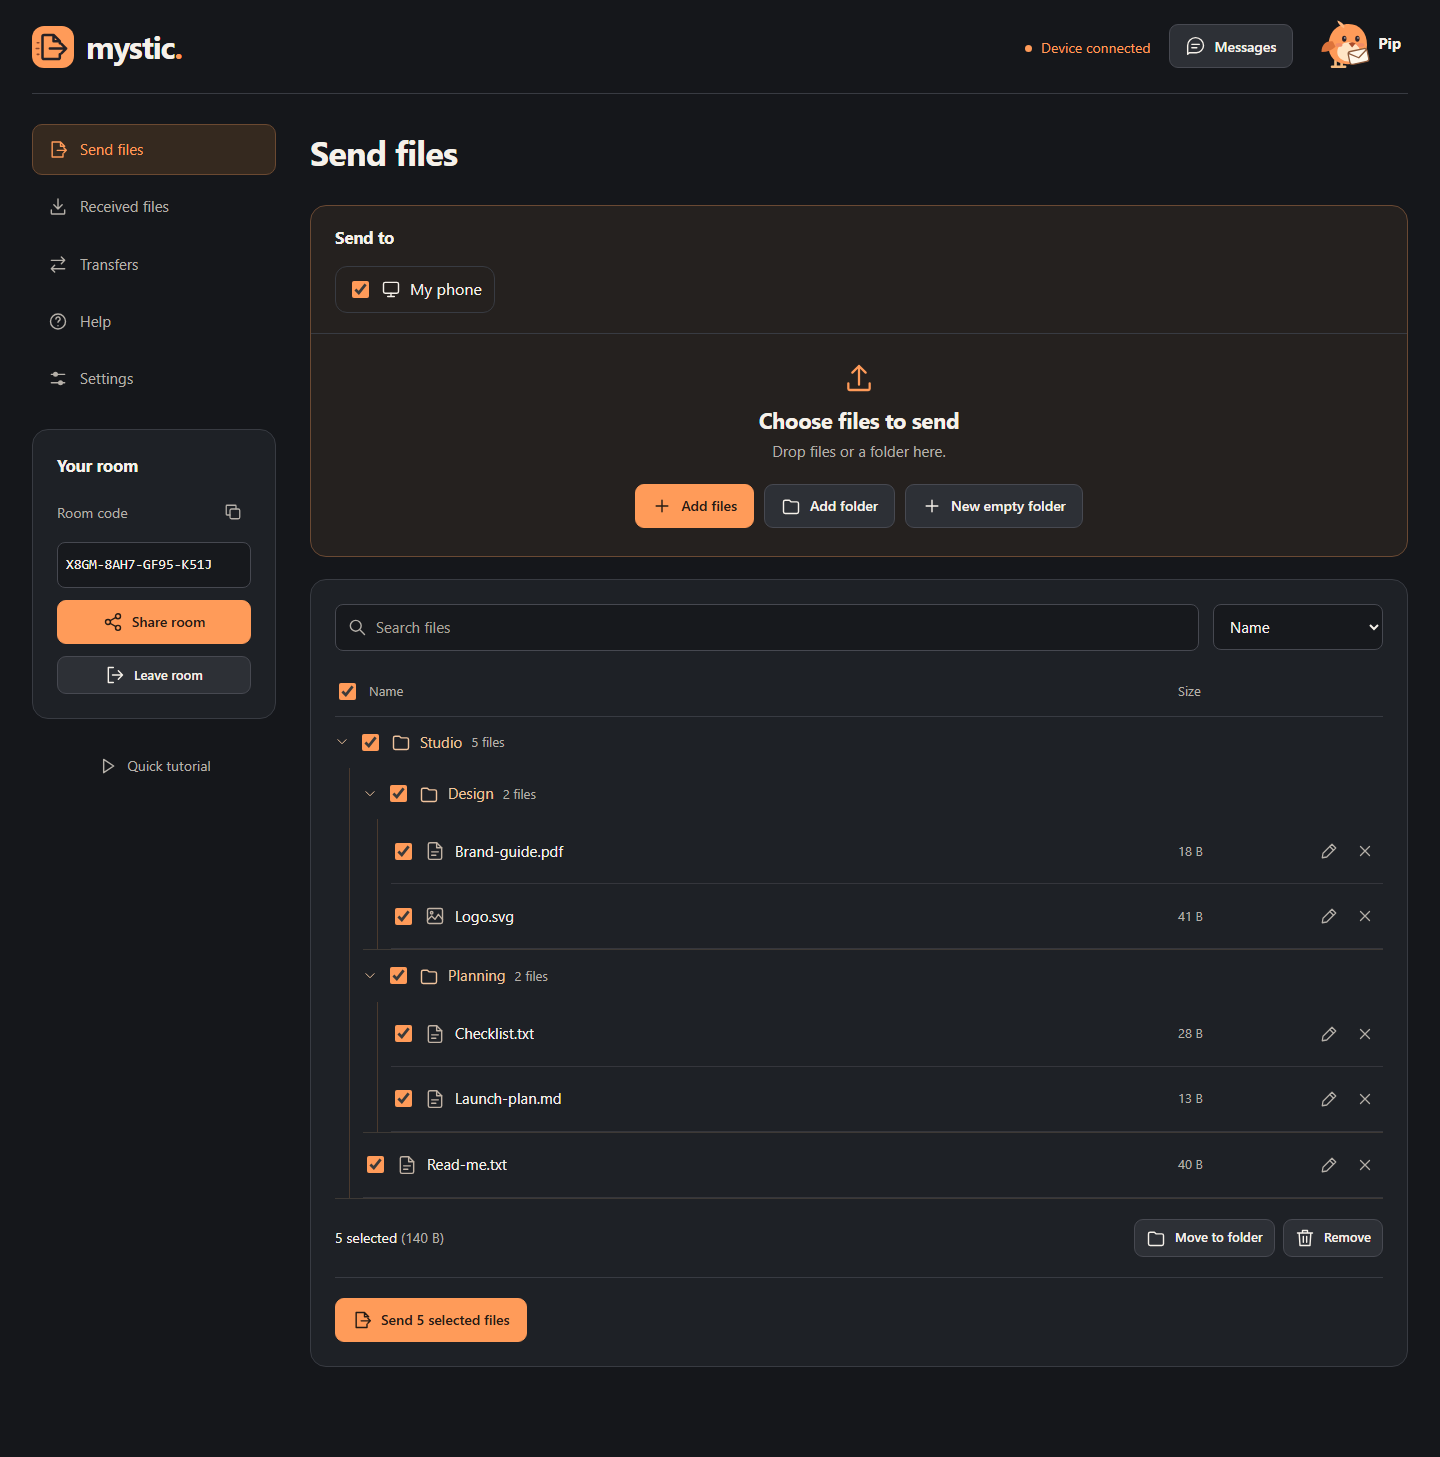
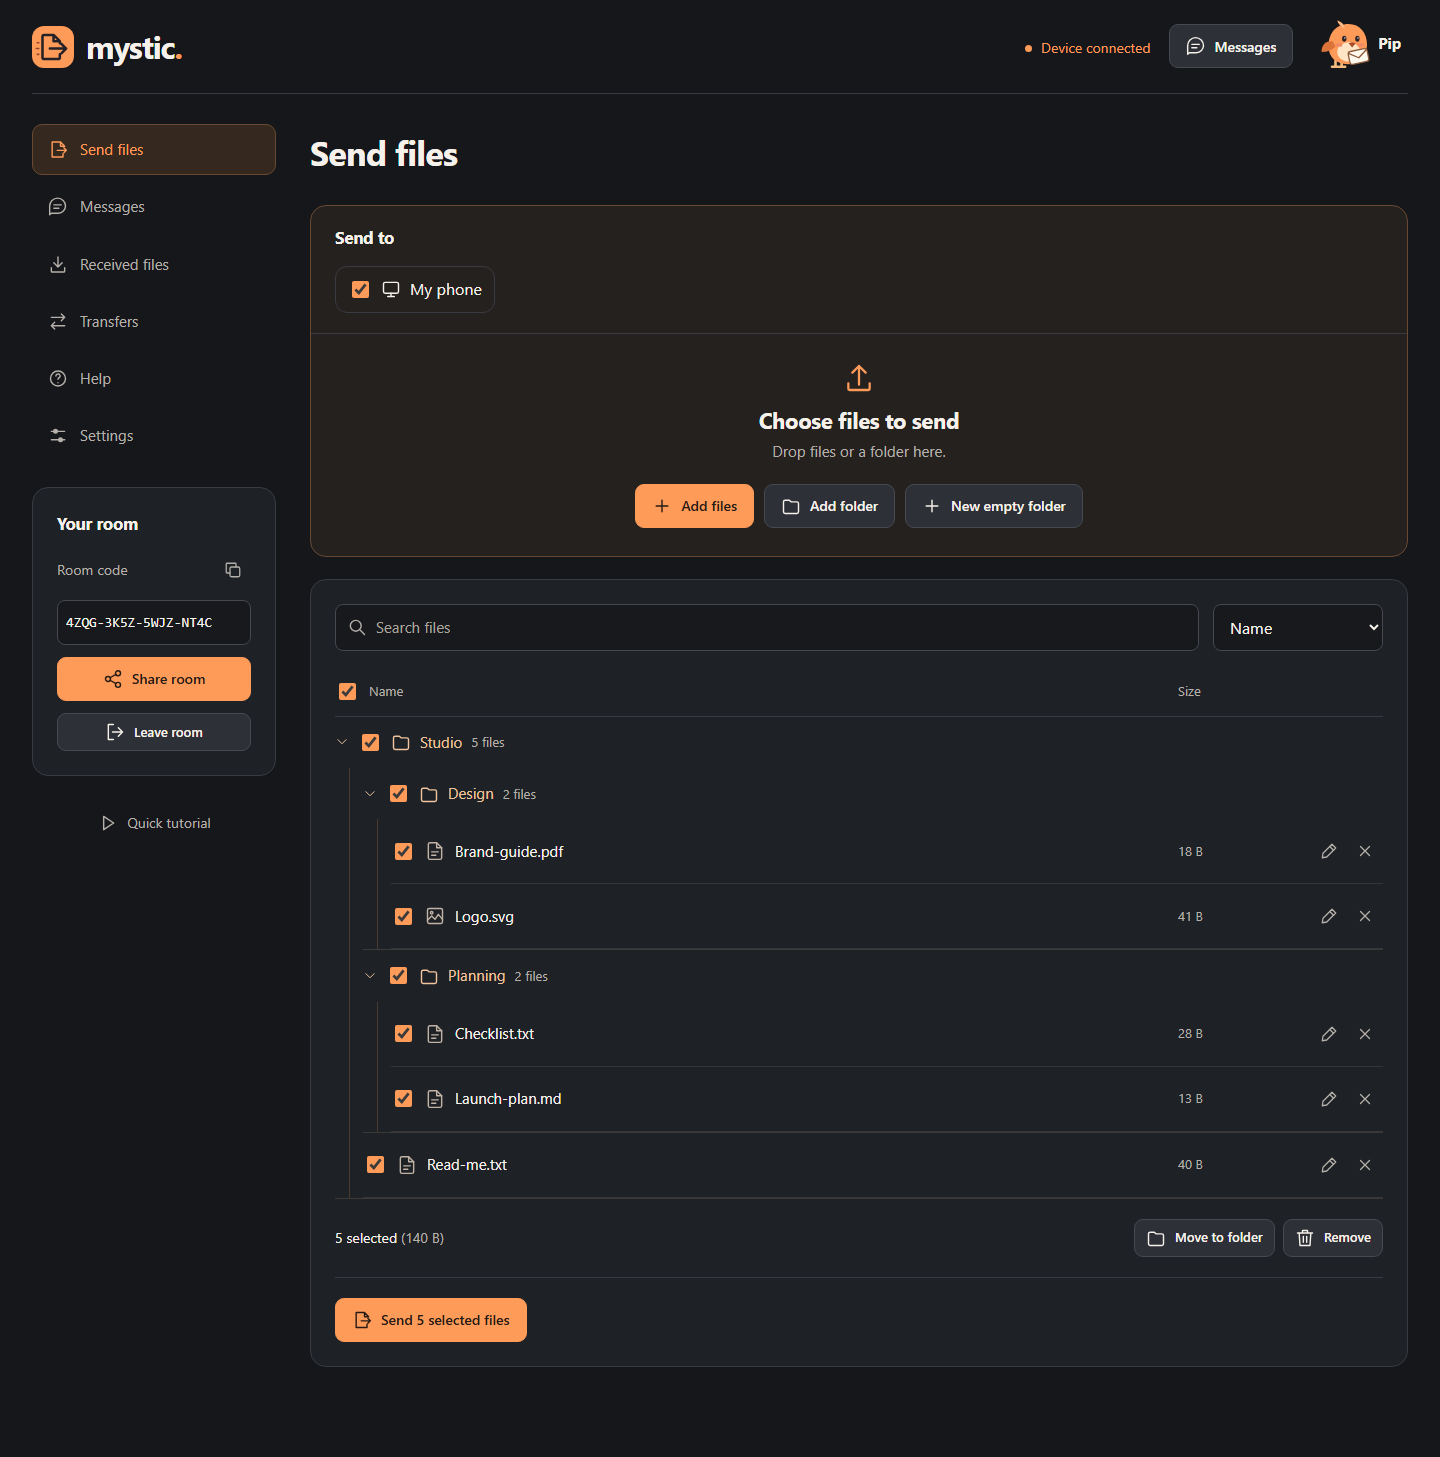
docs: publish live Mystic link and messaging walkthrough

Changed region(s): [[0.0312, 0.2162, 0.1875, 0.5868], [0.0312, 0.1235, 0.125, 0.1853]]

diff --git a/DEPLOYMENT.md b/DEPLOYMENT.md
@@ -1,5 +1,7 @@
 # Deploy Mystic
 
+The public preview is **https://mystic-hgyb.onrender.com**, deployed from this repository’s `main` branch to a free Render Node service. The service uses same-origin WebSockets and managed HTTPS. TURN is not configured; some restrictive networks will need a relay. The app and deployment smoke test are verified with browser profiles on one computer; physical cross-network validation is still required.
+
 ## Free launch on Render
 
 Render supports Node web services and WebSockets on its free plan. The included `render.yaml` runs the client and signaling together, with managed HTTPS and no paid database.
@@ -66,3 +68,5 @@ The optional external-folder library is entirely client-side. Hosts do not mount
 ## PWA and room-message checks
 
 Serve the manifest, PNG icons, `/pwa-assets.js` and `/download-worker.js` from the same HTTPS origin. `/messages` must return the application shell. Check installation from Settings, a live message and reply, delivery counts, one file in each direction, and reopening saved content offline. See [PWA and messages](docs/pwa-and-messages.md). After client changes, regenerate `src/pwa-assets.js` before pushing. The normal Node deployment uses the tracked asset list without a frontend build step.
+
+For an owner-authorized live smoke test, run `node scripts/hosted-smoke.mjs https://your-site.example`. It creates a temporary private test room using synthetic files, verifies downloaded bytes and messages in both directions, and leaves the browsers’ test profiles and downloads in ignored workspace artifacts (on D: when the checkout is on D:). The browser devices run on the testing computer; still check physical phones across separate networks.

diff --git a/README.md b/README.md
@@ -15,6 +15,8 @@
 
 ![Mystic desktop workspace with a complete project folder ready to send](docs/images/mystic-desktop.png)
 
+**Use Mystic:** [mystic-hgyb.onrender.com](https://mystic-hgyb.onrender.com) · [Install and messaging guide](docs/pwa-and-messages.md). The free host can take about a minute to wake after inactivity.
+
 ## Features
 
 - **Complete folders.** Keep nested paths and empty folders, organize files before sending, and save received folders as ZIP64 archives or native folders where supported.
@@ -33,6 +35,13 @@
 <summary>See the mobile workspace</summary>
 <br>
 <img src="docs/images/mystic-mobile.png" alt="Mystic received folders on a phone" width="330">
+</details>
+
+<details>
+<summary>See room messages</summary>
+<br>
+<img src="docs/images/mystic-messages-desktop.png" alt="Mystic room conversation with delivery receipts" width="100%">
+<img src="docs/images/mystic-messages-mobile.png" alt="Mystic room messages on a phone" width="330">
 </details>
 
 ## Quick start
@@ -89,7 +98,7 @@ docker build -t mystic .
 docker run --rm -p 8080:8080 mystic
 ```
 
-For a Linux server with a domain and public IP, see [the HTTPS and relay stack](deploy/README.md). Keep secrets in the ignored deployment environment file. The project includes no production service or promised free relay capacity.
+For a Linux server with a domain and public IP, see [the HTTPS and relay stack](deploy/README.md). Keep secrets in the ignored deployment environment file. The public preview runs on free Render. No always-on uptime or free TURN relay capacity is promised.
 
 ## Contribute
 
